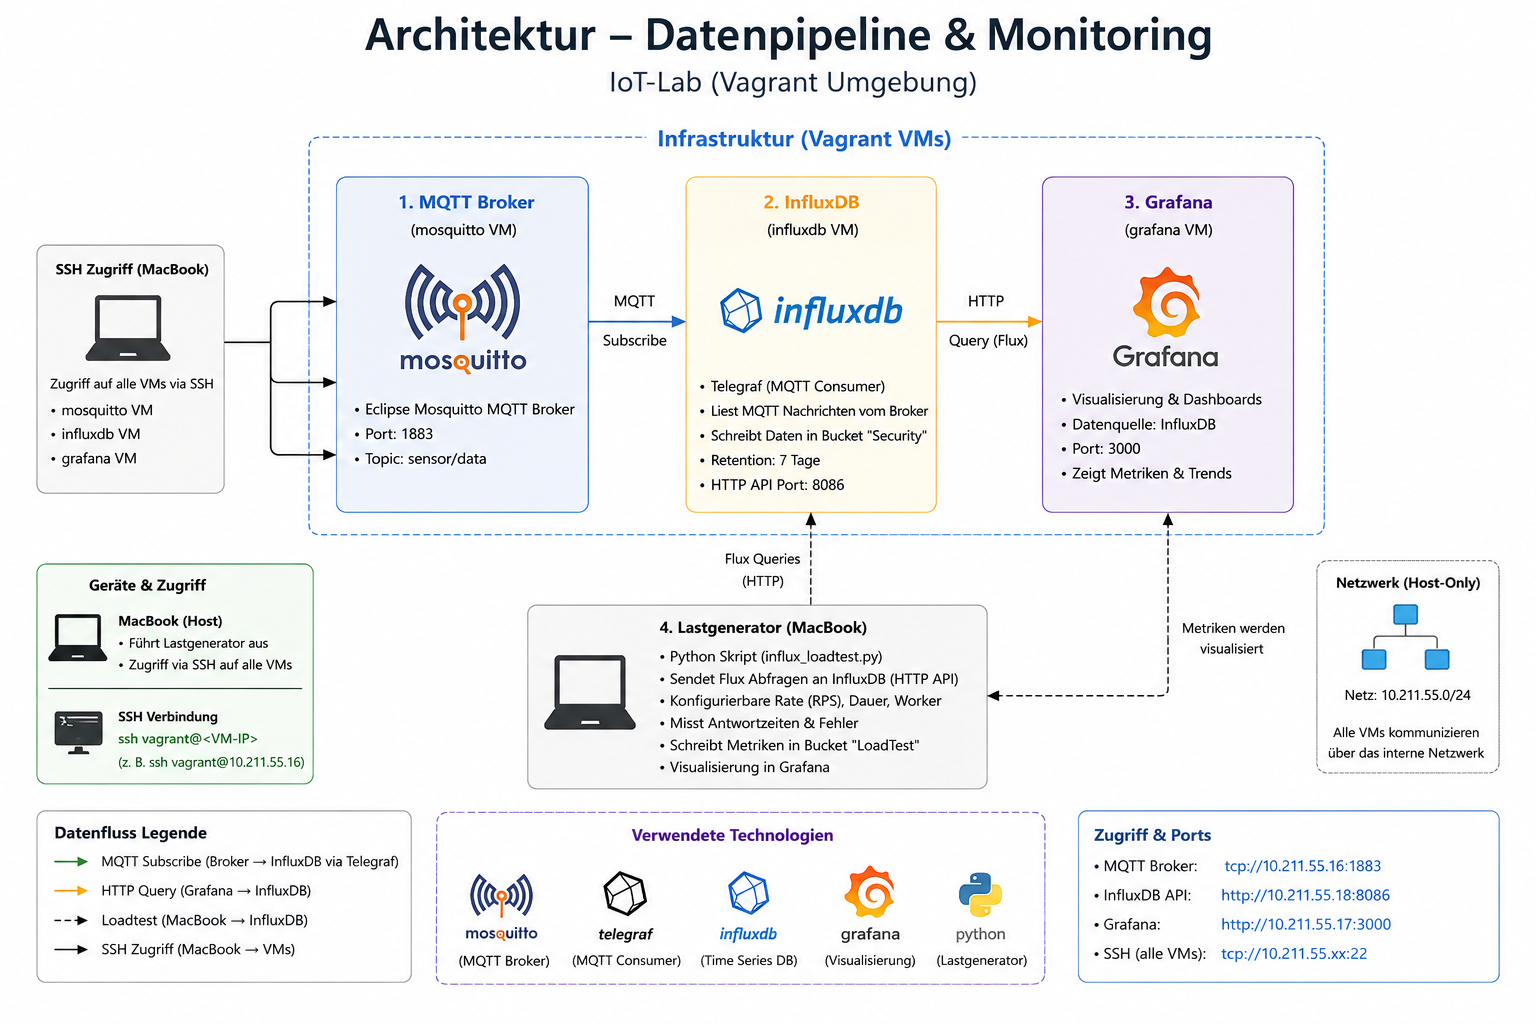
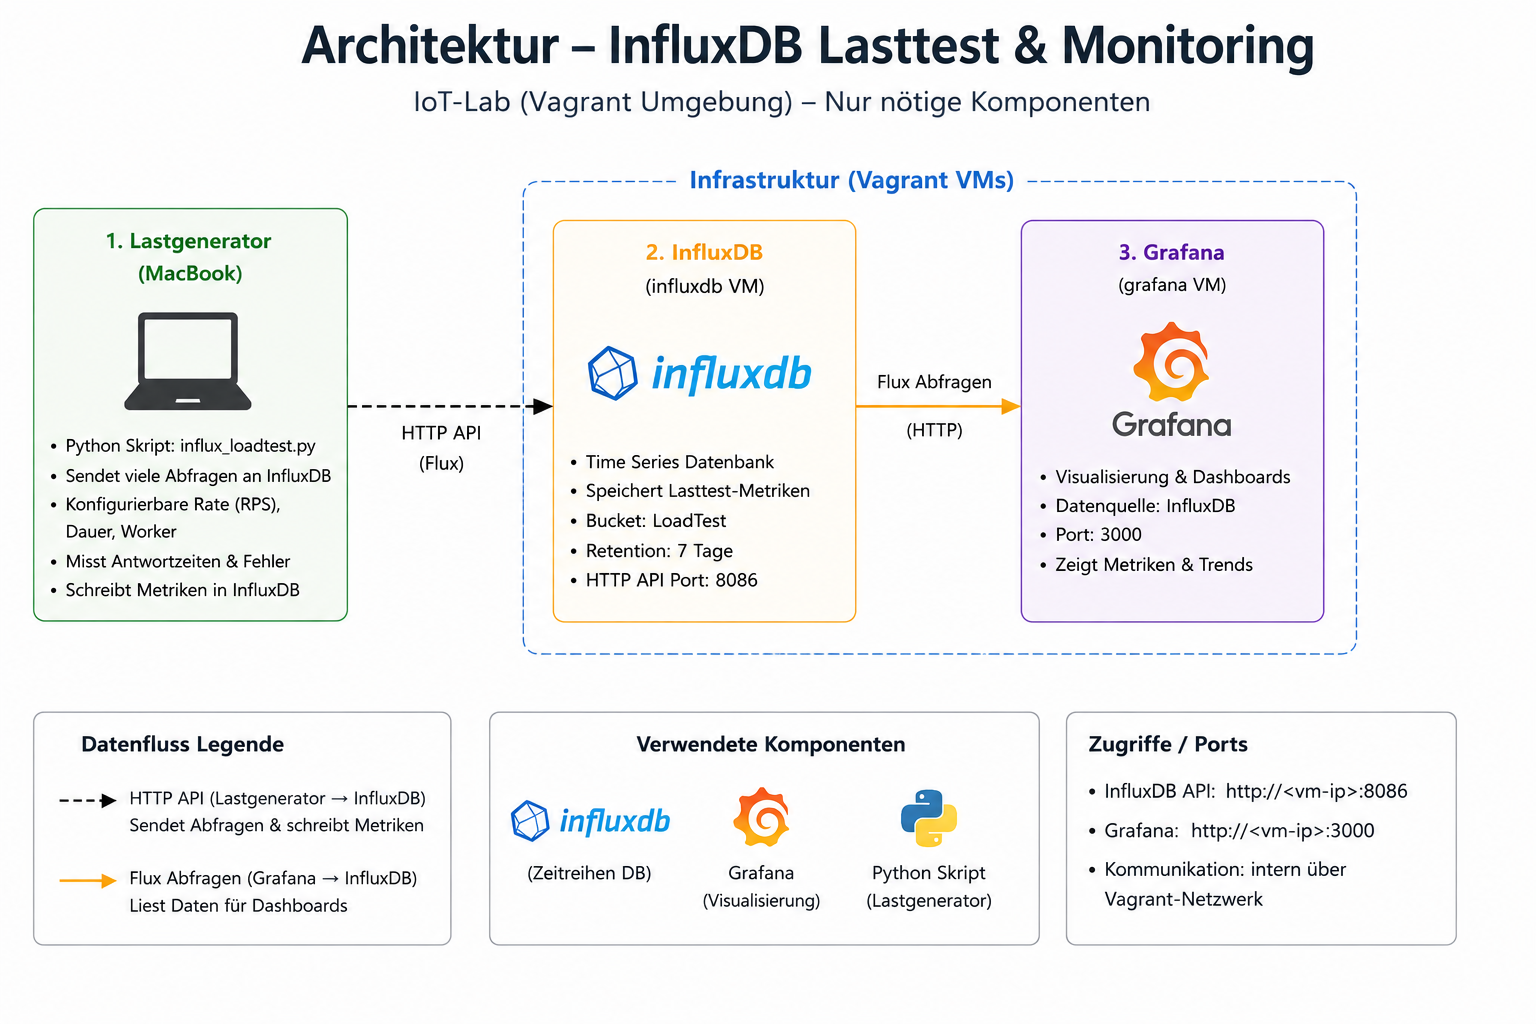
new chapters

diff --git a/README.md b/README.md
@@ -16,3 +16,14 @@ Die gesamte Umgebung läuft auf verschiedenen Ubunut-VM's die mit einem Vagrantf
 ## Architektur
 
 ![Architektur](Grafana.png)
+
+Die Projekt beinhaltet folgende Komponenten:
+
+| Komponente | Aufgabe |
+|------------|---------|
+| **Vagrant** | Zum erstellen, verwalten und starten sowie stoppen der virtuellen Maschinen|
+| **Grafana** | Zur grafischen Darstellung des Lastentests auf Influxdb |
+| **Telegraf** | Zum Empfangen der MQTT-Daten und übetragung zu Influxdb |
+| **Mosquitto** | Als MQTT-Broker zum empfangen und weiterleiten der Daten|
+| **Influxdb** | Zum speichern der Messdaten vom Lastentest   |
+| **Lastenscript** | Zur Ausführen des Lastentest |
